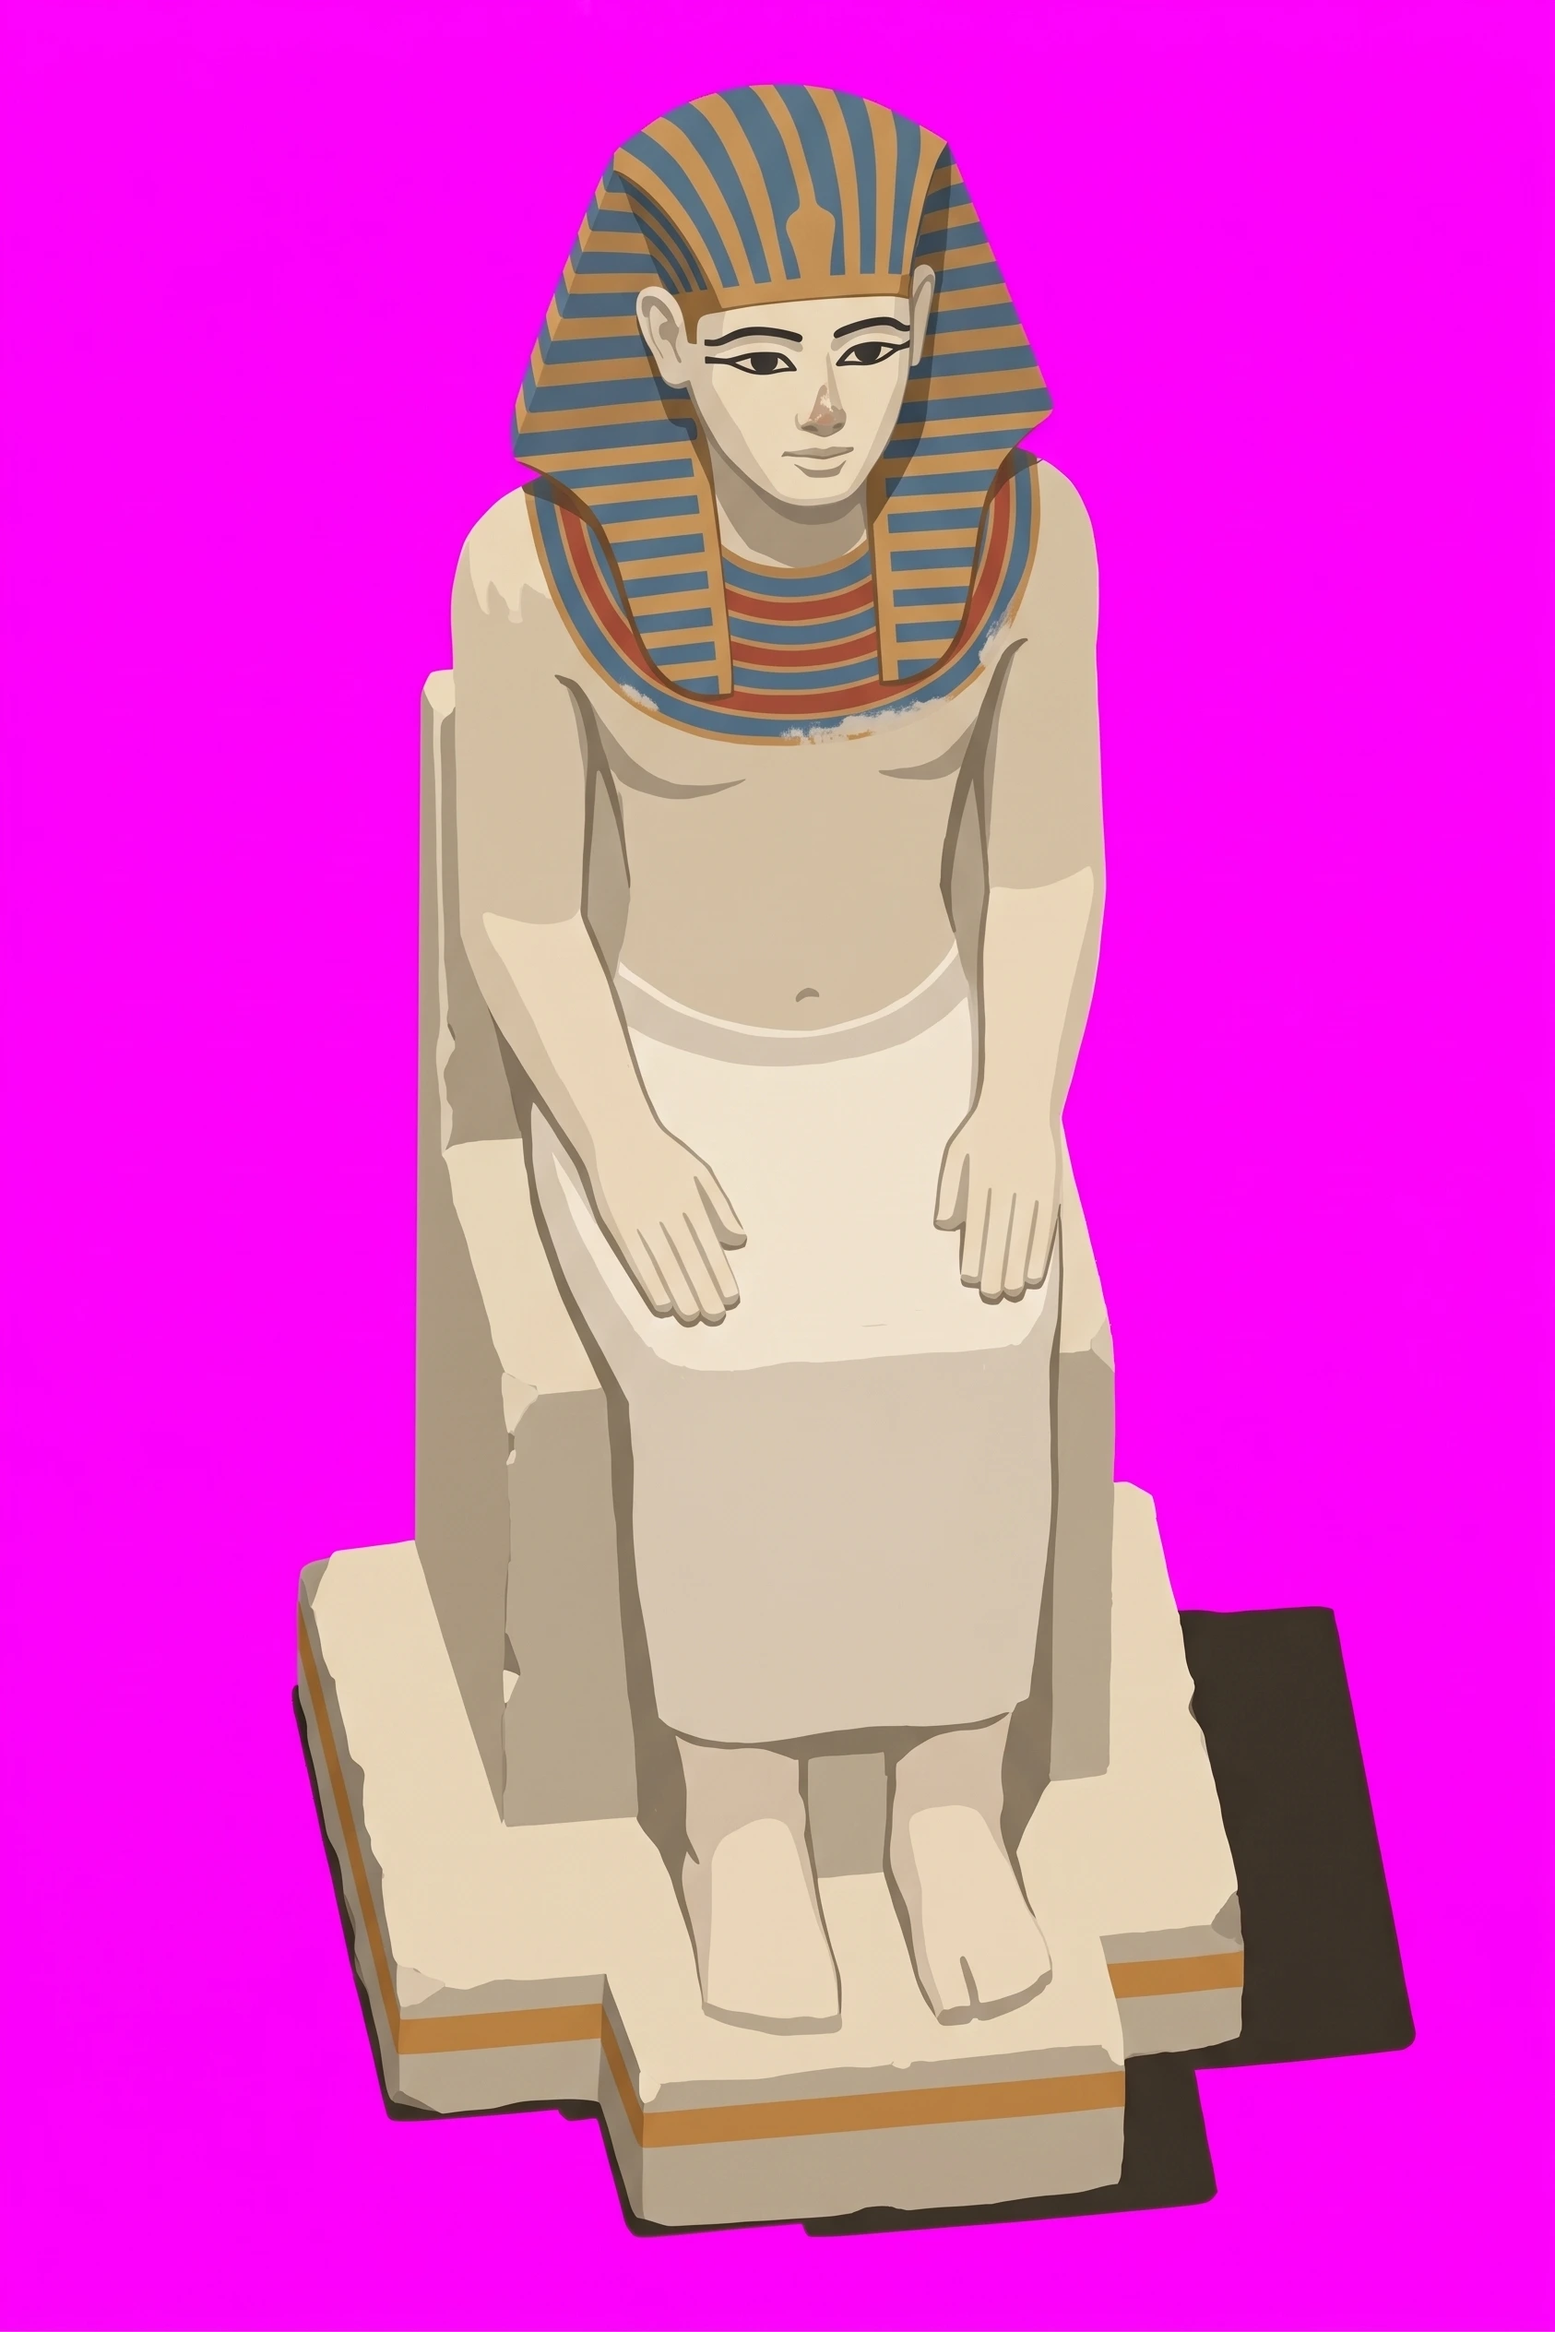
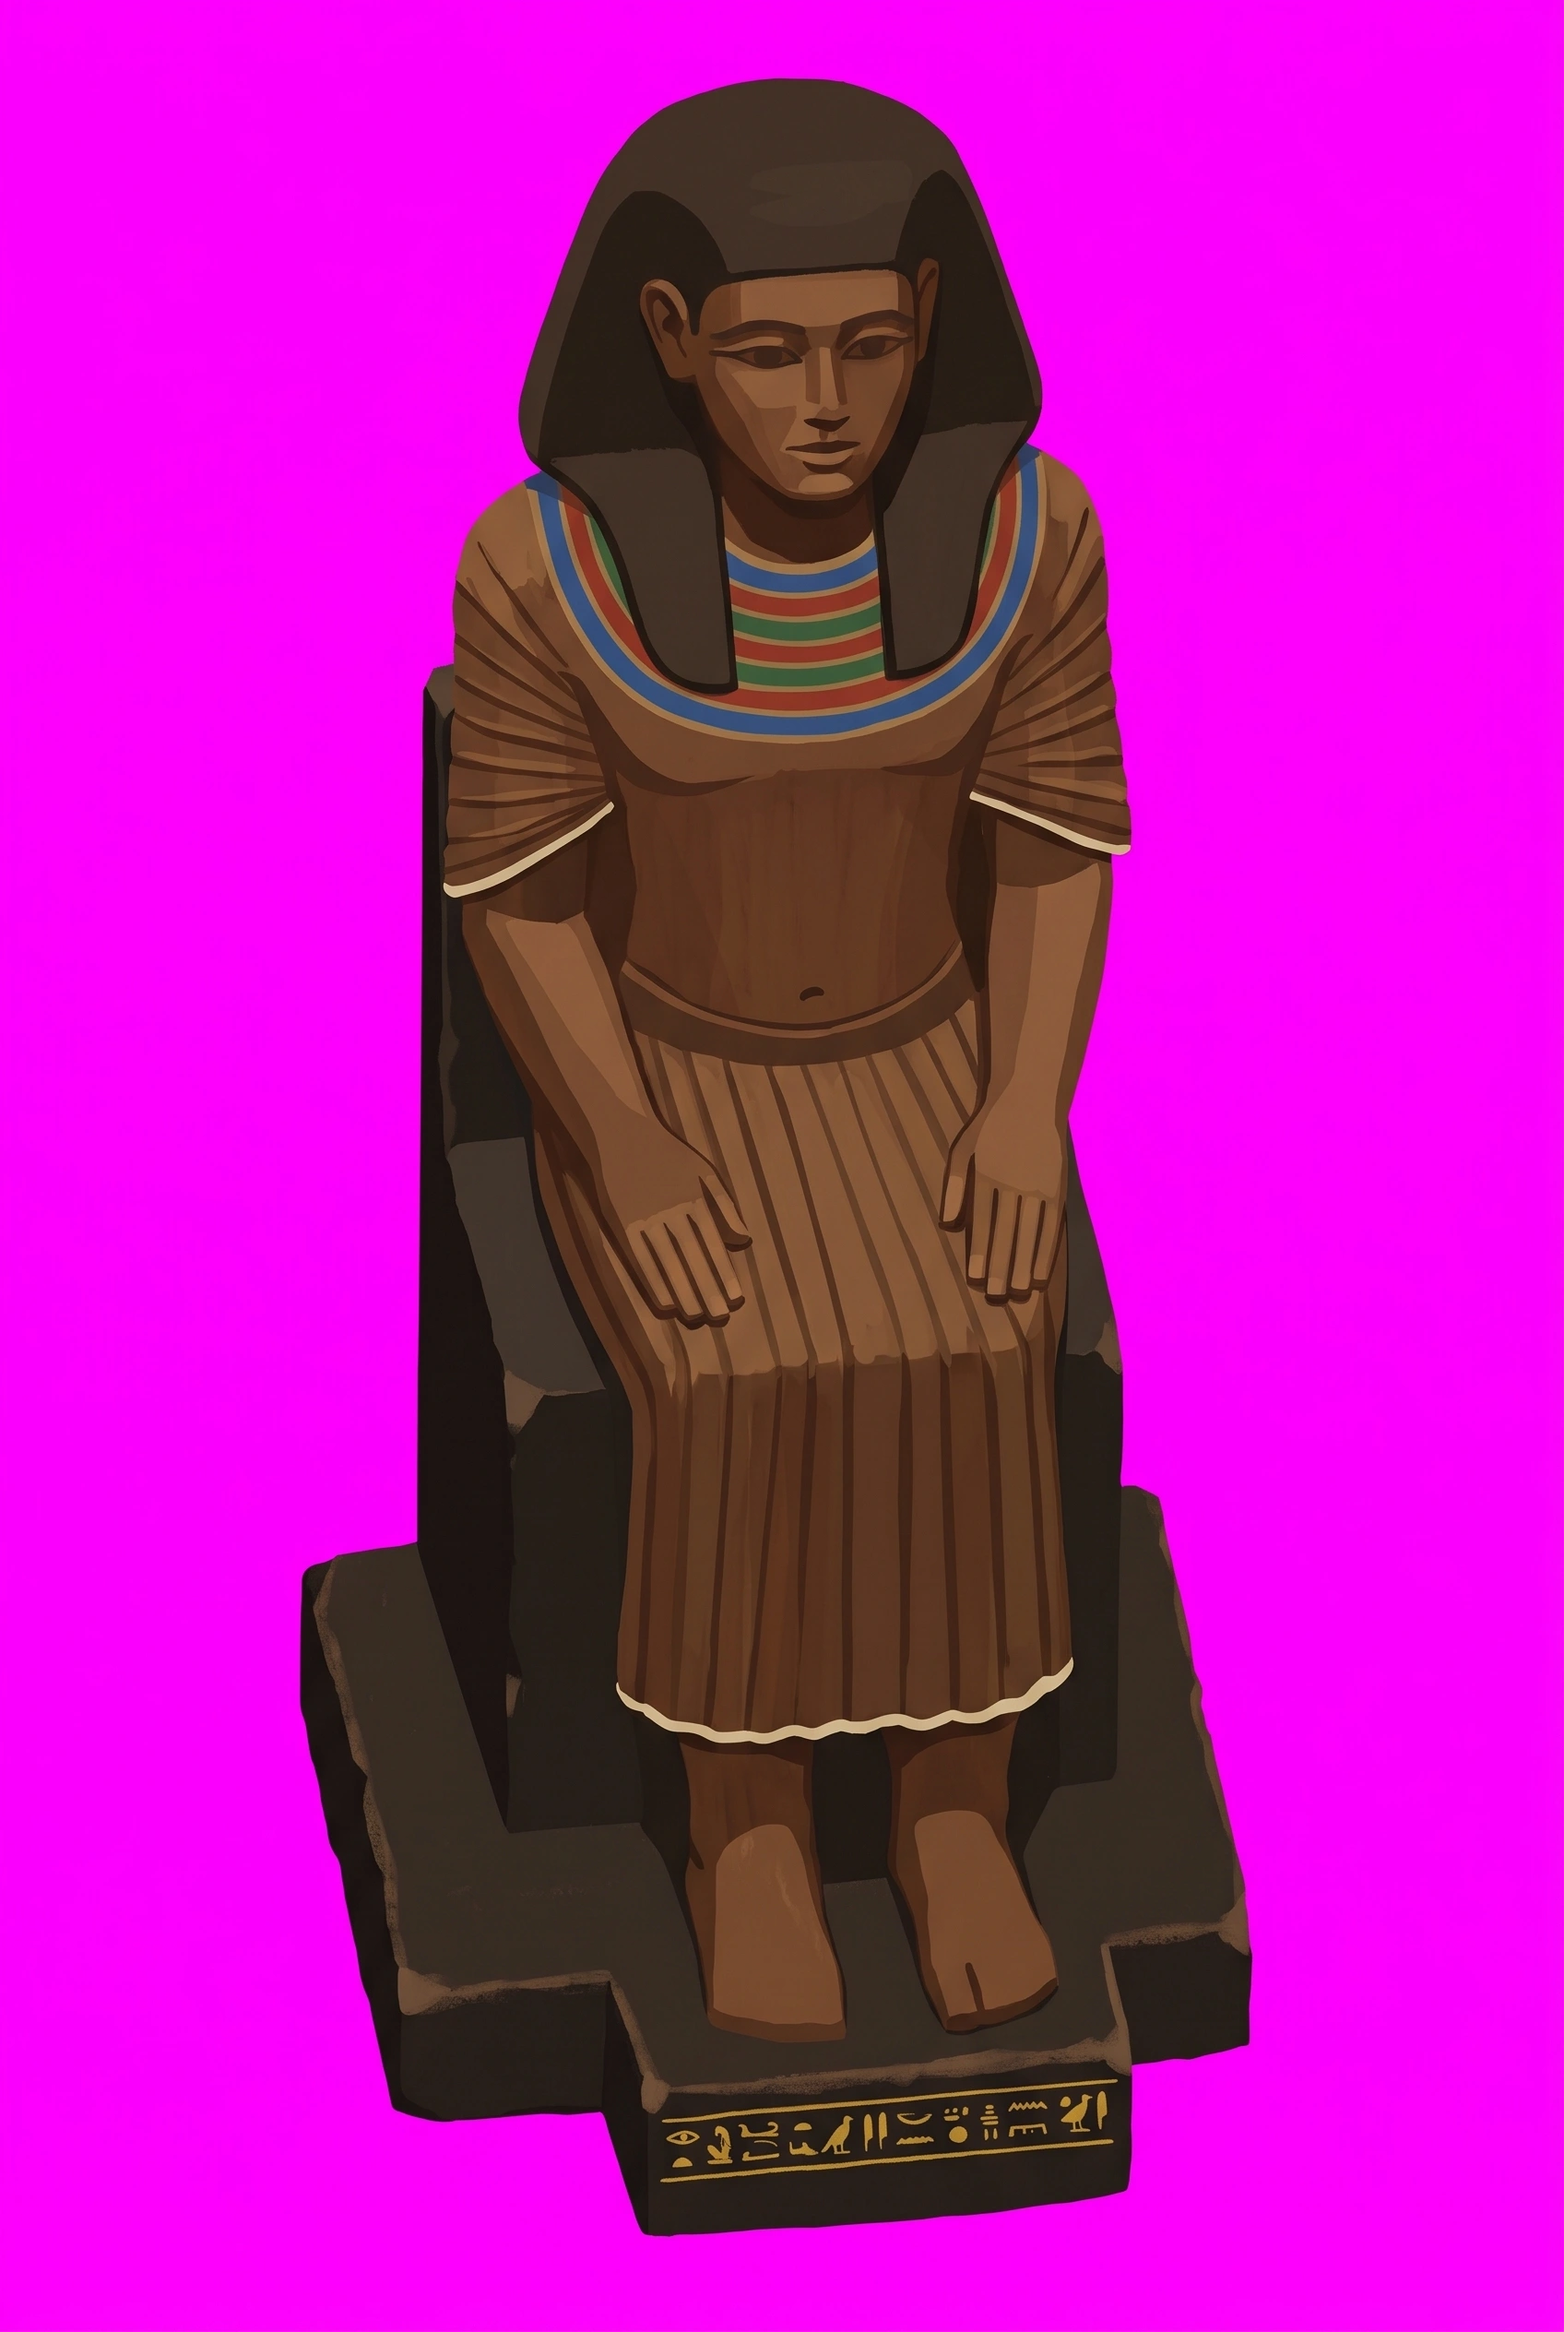
art: junior ka-statue in dark wood
Claude-Session: https://claude.ai/code/session_01F6g2diRzQCzQwEf9zsEEGH

diff --git a/docs/instructions/repaint-queue.md b/docs/instructions/repaint-queue.md
@@ -483,7 +483,7 @@ Even lighting left to right, no hotspot, no vignette.
 
 ---
 
-## Nobleman — twenty-one
+## Nobleman — twenty
 
 The nobleman's existing props, repainted for the rank's new light orange floor. Each is its own thing
 first: cedar is cedar, linen is linen, pottery is pottery, painted in red ochre, Egyptian blue and leaf
@@ -506,59 +506,6 @@ The last nine are the house's own kinds, new with its activities ([themed-rooms.
 § Junior): each has a primitive of its own in `renderProp.py` and a guarded block in `art/rebuild.sh`. The
 banquet table and the bed are two cells across, so their frame is landscape three by two; the harp and the
 potted tree stand a cell taller, so theirs is portrait two by five.
-
-### `junior/statue` — the nobleman's ka-statue in dark wood, seated
-
-**Re-roll:** the rank's palette moved (2026-11-03, `Topology/Palette moodboard`). Repainted against the new light orange floor, in its own material's colours; copper only as a trim.
-
-**Attach:**
-
-1. `~/tile-previews/statue-junior.png` — the scaffold
-2. `~/tile-previews/junior-plain.png` — the material reference
-
-```
-A wall-less product shot of a single object, painted in flat matte gouache, no background, on pure magenta #FF00FF. Portrait, two units wide by three tall, exactly as the reference. Do not re-compose it into a square. Paint over the reference image itself.
-
-The object: a seated KA-STATUE of the nobleman, carved from one block of dark ACACIA WOOD. The upper
-marked part is the FIGURE; the block under it is the SEAT and PLINTH.
-
-IT IS A CARVED OBJECT AND NOT A PERSON. Block-carved: flat planes, hard arrises, the figure never
-leaves its block, nothing undercut. No anatomy is modelled. The figure is CLOTHED, no bare torso — bare
-painted flesh is what turns a statue into a cartoon character.
-
-PAINTED as his house is, on dark wood: the figure is the oiled wood itself, #5e3a22, #6e4428 on its top
-planes, with his face and hands left bare wood in flat planes. A pleated robe from his shoulders to his
-shins, in the wood's own colour with its pleats carved, its hem edged with a thin cream line #d8c8a8. A
-black shoulder-length wig #2a1f18, a broad collar of Egyptian blue #2a5a9a, leaf green #3b6b45 and red
-ochre #8a3a2a bands. The seat and plinth are painted black #2a1f18, #3a2e26 on their top faces, with a
-band of small yellow #c9a040 hieroglyphs along the front.
-
-THE REFERENCE IS A ROUGHED-OUT BLOCK, deliberately left fat. CHANGE, freely, and ONLY this: the contour
-of the figure, and only by CUTTING. CARVE INWARD ONLY — nothing may end up further left, right, higher or
-lower than the rough shape reaches.
-
-EVERYTHING ELSE IS FIXED:
-
-1. THE FRAME. Portrait, two units wide by three tall, exactly as the reference. Do not re-compose it into a square.
-2. THE PERSPECTIVE, THE PROJECTION, THE ANGLE AND THE ROTATION ARE THE REFERENCE'S. Take all four from the reference image exactly and do not reason about them. It is not a photograph and not an isometric view.
-3. HE SITS, facing the viewer, hands on his knees.
-4. THE PLINTH IS EXACTLY AS THE REFERENCE DRAWS IT — its angle, its rotation, how much of its top shows. Do not swing it round, do not flatten it.
-5. THE PLACEMENT AND THE SIZE. Every part stays where the reference puts it, and the whole object stays as tall and as wide in the frame as it already is. The figure is the marked upper part; the base is the lower part. Do not shrink the figure onto a taller base.
-
-You are re-carving a shape, not re-staging a photograph.
-
-ANYTHING DRAWN OUTSIDE THE ROUGH SHAPE IS CUT OFF. Nothing is added below the plinth — no ground, no shadow, no floor.
-
-No highlights, no gloss, no rim light, no ground plane, no reflections. Matte throughout, evenly lit, crisp and clean. Nobleman's house: orange sandstone, painted plaster, cedar, linen, reed and pottery, each in its OWN colours so it reads at a glance as what it is. Copper is an accent only — a rim, a band, a hasp, gone verdigris green at the edges — never a tint over the whole object.
-```
-
-Then, once the return is in `~/Downloads`:
-
-```sh
-scaffold statue --contents=seated --spin=7 --colour=#4a3e34 --colour-figure=#6e4428 --floor=#e2a86f
-yarn import-tile art/masters/props/junior/statue.webp --tier=junior --name=statue --slot=prop \
-  --filter=smooth --mask="$OBJ" --seat="$SHADOW"
-```
 
 ### `junior/sarcophagus` — a black-ground anthropoid coffin
 
